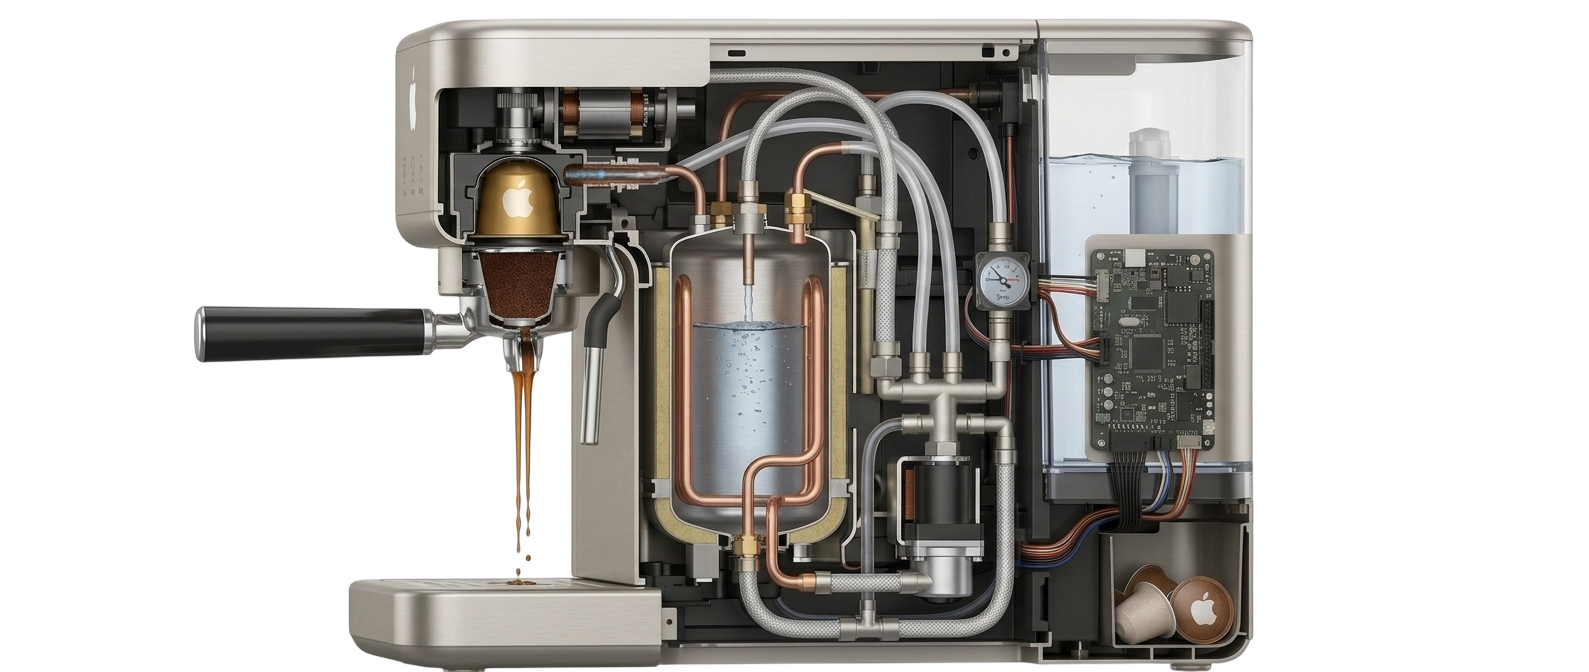
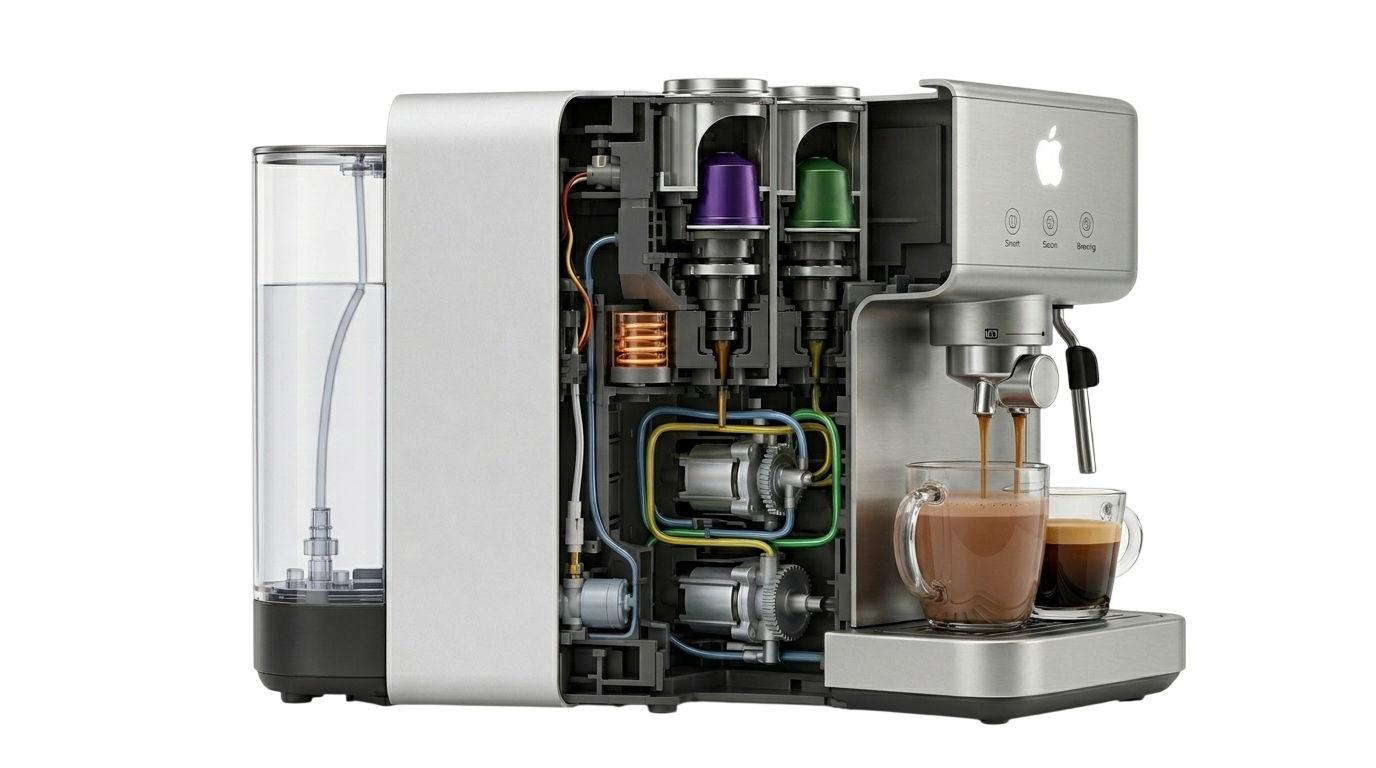
letzte Änderungen

diff --git a/main.js b/main.js
@@ -17,16 +17,15 @@ function goToSlide(index) {
   });
 }
 
-// Scroll-Event-Listener für die Dots:
+let currentDotIndex = 0; // Speichert den aktuell aktiven Punkt
+
 if (carousel) {
   carousel.addEventListener('scroll', () => {
-    // Der echte Mittelpunkt des sichtbaren Carousel-Fensters
     const center = carousel.scrollLeft + carousel.clientWidth / 2;
     let bestIndex = 0;
     let bestDistance = Infinity;
 
     slides.forEach((slide, index) => {
-      // Der echte Mittelpunkt des jeweiligen Bildes
       const slideCenter = slide.offsetLeft + slide.offsetWidth / 2;
       const distance = Math.abs(slideCenter - center);
       if (distance < bestDistance) {
@@ -34,7 +33,13 @@ if (carousel) {
         bestIndex = index;
       }
     });
-    setActiveDot(bestIndex);
+
+    // Nur wenn das Bild wirklich gewechselt hat:
+    if (bestIndex !== currentDotIndex) {
+      currentDotIndex = bestIndex;
+      setActiveDot(bestIndex);
+      autoplay(); // <-- Fix: Setzt den Timer beim Wischen zurück
+    }
   }, { passive: true });
 }
 
@@ -50,13 +55,13 @@ dots.forEach((dot, i) => dot.addEventListener('click', () => {
 prev?.addEventListener('click', () => {
   const current = dots.findIndex(d => d.classList.contains('active'));
   goToSlide(Math.max(0, current - 1));
-  autoplay(); 
+  autoplay();
 });
 
 next?.addEventListener('click', () => {
   const current = dots.findIndex(d => d.classList.contains('active'));
   goToSlide(Math.min(slides.length - 1, current + 1));
-  autoplay(); 
+  autoplay();
 });
 
 let carouselTimer;
@@ -69,24 +74,6 @@ function autoplay() {
   }, 6000); // = alle 6 Sekunden bewegt sich die Bildergallerie
 }
 autoplay();
-
-if (carousel) {
-  carousel.addEventListener('scroll', () => {
-    const center = carousel.scrollLeft + carousel.clientWidth / 2;
-    let bestIndex = 0;
-    let bestDistance = Infinity;
-    slides.forEach((slide, index) => {
-      const slideCenter = slide.offsetLeft + slide.offsetWidth / 2;
-      const distance = Math.abs(slideCenter - center);
-      if (distance < bestDistance) {
-        bestDistance = distance;
-        bestIndex = index;
-      }
-    });
-    setActiveDot(bestIndex);
-  }, { passive: true });
-}
-
 
 document.addEventListener('DOMContentLoaded', () => {
 
@@ -182,26 +169,21 @@ document.addEventListener('DOMContentLoaded', () => {
 
   counters.forEach(counter => counterObserver.observe(counter));
 
-
-
-
-
-
-  // 3. Apple Feature Accordion (Klickbare Infoboxen)
+  // Klickbare Infoboxen
   const featureButtons = document.querySelectorAll('.feature-item .btn-links');
 
   featureButtons.forEach(button => {
     button.addEventListener('click', () => {
       const currentItem = button.closest('.feature-item');
-      
+
       // Prüft, ob dieses Feld schon offen ist
       const isOpen = currentItem.classList.contains('open');
-      
+
       // Schließt alle anderen eventuell offenen Textfelder (genau wie bei Apple)
       document.querySelectorAll('.feature-item').forEach(item => {
         item.classList.remove('open');
       });
-      
+
       // Wenn es nicht offen war, öffne es jetzt
       if (!isOpen) {
         currentItem.classList.add('open');

diff --git a/main.css b/main.css
@@ -28,9 +28,12 @@ body {
 .container {
     max-width: 1200px;
     margin: 0 auto;
-    width: 100%; /* Das zwingt den Container auf die volle Breite */
-    padding: 0 20px; /* Schützt Inhalte davor, am Handy den Rand zu berühren */
-    box-sizing: border-box; /* Wichtig in Kombination mit padding */
+    width: 100%;
+    /* Das zwingt den Container auf die volle Breite */
+    padding: 0 20px;
+    /* Schützt Inhalte davor, am Handy den Rand zu berühren */
+    box-sizing: border-box;
+    /* Wichtig in Kombination mit padding */
 }
 
 .section-padding {
@@ -505,6 +508,15 @@ p {
     /* Entfernt den standardmäßigen kleinen Whitespace unter Bildern */
     object-fit: cover;
     /* Schneidet das Bild sauber zu, falls Höhenbegrenzungen ins Spiel kommen */
+}
+
+.hero-video {
+    width: 100%;
+    /* Nutzt die volle Breite des Containers */
+    height: auto;
+    /* Behält das richtige Seitenverhältnis bei */
+    display: block;
+    /* Verhindert unschöne Abstände nach unten */
 }
 
 /*Part unter: "Sieh es dir genauer an."*/

diff --git a/ibrew_family.html b/ibrew_family.html
@@ -61,14 +61,14 @@
             <div class="carousel-shell">
                 <div class="carousel" tabindex="0" aria-label="Highlights Galerie">
                     <article class="card card-image active" data-slide>
-                        <img src="Bilder/family_gallery_1.png" alt="Oben-Ansicht der Maschine und Zubehör" />
+                        <img src="Bilder/family_gallery_1.png" alt="Frontansicht iBrew Family" title="Frontansicht iBrew Family" />
                         <div class="card-overlay">
                             <h2 class="h2_carousel">Kratzfest, pflegeleicht und sicher vor kleinen Entdeckern.</h2>
                         </div>
                     </article>
 
                     <article class="card card-image active" data-slide>
-                        <img src="Bilder/family_gallery_2.png" alt="iBrew in einer stilvollen Küche" />
+                        <img src="Bilder/family_gallery_2.png" alt="iBrew Family in einer stilvollen Küche" title="iBrew in einer stilvollen Küche" />
                         <div class="card-overlay">
                             <h2 class="h2_carousel">Flüsterleise am frühen Morgen, damit alle in Ruhe ausschlafen
                                 können.</h2>
@@ -76,7 +76,7 @@
                     </article>
 
                     <article class="card card-image active" data-slide>
-                        <img src="Bilder/family_gallery_3.jpg" alt="Detailansicht der Bedienelemente und App" />
+                        <img src="Bilder/family_gallery_3.jpg" alt="Kompatibilität im Apple-Ökosystem" title="Kompatibilität im Apple-Ökosystem" />
                         <div class="card-overlay">
                             <h2 class="h2_carousel">Ein Fingertipp für Papas Espresso, Mamas Cappuccino und den Kakao
                                 der Kinder.</h2>
@@ -105,7 +105,7 @@
         </section>
 
         <section class="side fade-in"> <!--Sidebild-->
-            <img src="Bilder/family_side.png" alt="Seitenansicht iBrew" title="Seitenansicht iBrew">
+            <img src="Bilder/family_side.png" alt="Frontansicht iBrew Family" title="Frontansicht iBrew Family" loading="lazy">
         </section>
 
         <section>
@@ -155,7 +155,7 @@
                         One-Touch-System
                     </button>
                     <div class="feature-text">
-                        <p>Keine Wartezeit am Morgen. Das hocheffiziente Heizsystem ist in nur 12 Sekunden startklar und
+                        <p>Keine Wartezeit am Morgen. Das hocheffiziente Heizsystem ist in nur 4 Sekunden startklar und
                             schaltet blitzschnell zwischen perfekter Kaffeetemperatur und optimaler Hitze für heißen
                             Kakao oder Teewasser um.</p>
                     </div>
@@ -171,7 +171,7 @@
                         iBrew Profile
                     </button>
                     <div class="feature-text">
-                        <p>Über das intuitive Farbdisplay kann jedes Familienmitglied sein eigenes Profil speichern. Ob
+                        <p>Über die intuitive Bedienfläche kann jedes Familienmitglied sein eigenes Profil speichern. Ob
                             der extrastarke Espresso für die Eltern oder die perfekt temperierte, milde Milch für den
                             Kakao der Kinder – ein Fingertipp genügt.</p>
                     </div>
@@ -195,7 +195,7 @@
             </div>
             <div class="spalte-rechts">
                 <img src="Bilder/family_querschnitt.png" alt="Querschnitt iBrew Family"
-                    title="Querschnitt iBrew Family">
+                    title="Querschnitt iBrew Family" loading="lazy">
             </div>
         </section>
 

diff --git a/index.html b/index.html
@@ -103,9 +103,14 @@
             </div>
         </section>
 
-        <section class="side fade-in"> <!--Sidebild-->
+        <!-- <section class="side fade-in"> 
             <img src="Bilder/side.png" alt="Seitenansicht iBrew" title="Seitenansicht iBrew">
-        </section>
+        </section> -->
+
+        <video autoplay loop muted playsinline class="hero-video fade-in">
+            <source src="Bilder/classic_video.mp4" type="video/mp4" loading="lazy">
+            <source src="Bilder/classic_video.webm" type="video/webm" loading="lazy"> Ihr Browser unterstützt das Video-Tag nicht.
+        </video>
 
         <section>
             <h1 class="space_left closer_look fade-in">Sieh es Dir genauer an.</h1>
@@ -190,7 +195,7 @@
             </div>
             <div class="spalte-rechts">
                 <img src="Bilder/Querschnitt silber.png" alt="Querschnitt iBrew Silber"
-                    title="Querschnitt iBrew Silber">
+                    title="Querschnitt iBrew Silber" loading="lazy">
             </div>
         </section>
 
@@ -306,7 +311,7 @@
                     <div class="model-info">
                         <p class="model-description">
                             Ein Knopfdruck für alle. Mit intelligenten Benutzerprofilen für jedes Familienmitglied,
-                            einem extragroßen XL-Wassertank und kinderleichter One-Touch-Bedienung für
+                            einem extragroßen XXL-Wassertank und kinderleichter One-Touch-Bedienung für
                             Kaffeespezialitäten und Kakao.
                         </p>
                         <a href="ibrew_family.html" class="model-link">Mehr zum Family Modell erfahren &rarr;</a>

diff --git a/ibrew_pro.html b/ibrew_pro.html
@@ -105,7 +105,7 @@
         </section>
 
         <section class="side fade-in"> <!--Sidebild-->
-            <img src="Bilder/pro_side.png" alt="Seitenansicht iBrew Pro" title="Seitenansicht iBrew Pro">
+            <img src="Bilder/pro_side.png" alt="Seitenansicht iBrew Pro" title="Seitenansicht iBrew Pro" loading="lazy">
         </section>
 
         <section>
@@ -157,7 +157,7 @@
                     <div class="feature-text">
                         <p>Keine Wartezeit vor dem ersten Meeting. Drei synchronisierte Hochleistungs-Thermoblöcke
                             heizen in
-                            rekordverdächtigen 9 Sekunden auf und bewältigen mühelos eng getaktete Kaffee-Dauerbezüge.
+                            rekordverdächtigen 3 Sekunden auf und bewältigen mühelos eng getaktete Kaffee-Dauerbezüge.
                         </p>
                     </div>
                 </div>
@@ -193,7 +193,7 @@
                 </div>
             </div>
             <div class="spalte-rechts">
-                <img src="Bilder/pro_querschnitt.png" alt="Querschnitt iBrew Pro" title="Querschnitt iBrew Pro">
+                <img src="Bilder/pro_querschnitt.png" alt="Querschnitt iBrew Pro" title="Querschnitt iBrew Pro" loading="lazy">
             </div>
         </section>
 
@@ -315,7 +315,7 @@
                     <div class="model-info">
                         <p class="model-description">
                             Ein Knopfdruck für alle. Mit intelligenten Benutzerprofilen für jedes Familienmitglied,
-                            einem extragroßen XL-Wassertank und kinderleichter One-Touch-Bedienung für
+                            einem extragroßen XXL-Wassertank und kinderleichter One-Touch-Bedienung für
                             Kaffeespezialitäten und Kakao.
                         </p>
                         <a href="ibrew_family.html" class="model-link">Mehr zum Family Modell erfahren &rarr;</a>